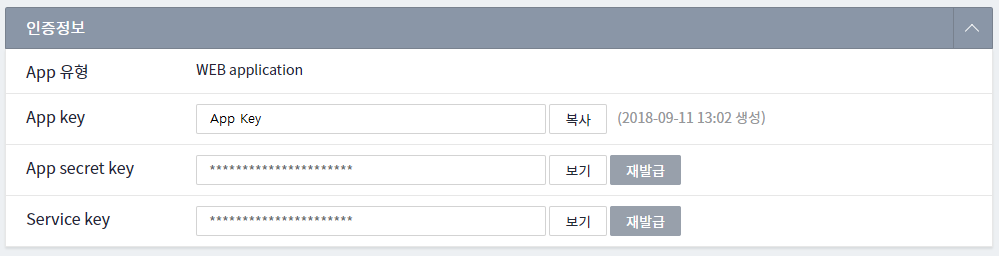
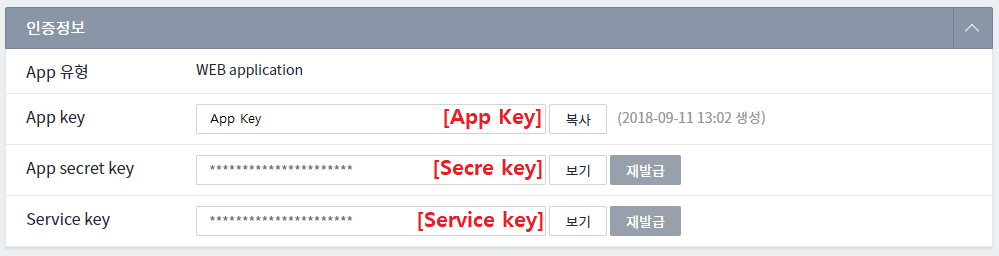
2018.11.16 - README 가이드 수정 / HttpClient.java - Error시 응답메시지 출력

Changed region(s): [[0.4034, 0.8125, 0.5586, 0.9062], [0.4344, 0.4062, 0.5586, 0.5], [0.4344, 0.625, 0.5586, 0.7188]]

diff --git a/src/main/resources/templates/admin.html b/src/main/resources/templates/admin.html
@@ -72,23 +72,23 @@
                     </select>
                 </div>
                 <div class="two wide field error">
-                    <label>condition</label>
+                    <label>할인조건</label>
                     <select class="ui fluid dropdown">
                         <option value="6" selected>금요일</option>
                     </select>
                 </div>
                 <div class="two wide field error">
-                    <label>value_type</label>
+                    <label>정률/정액</label>
                     <select class="ui fluid dropdown">
                         <option value="W" selected>정액제</option>
                     </select>
                 </div>
                 <div class="three wide field error">
-                    <label>starts_at</label>
+                    <label>할인 적용일</label>
                     <input type="datetime-local" placeholder="starts_at" value="2018-01-01T00:00" readonly>
                 </div>
                 <div class="three wide field error">
-                    <label>ends_at</label>
+                    <label>할인 마감일</label>
                     <input type="datetime-local" placeholder="ends_at" value="2020-12-31T00:00" readonly>
                 </div>
                 <div class="four wide field error">
@@ -178,7 +178,7 @@
                 discount_fn.delete_scripttag();
             }
 
-            setTimeout(function () {    //스크립트 설치/삭제 후 2초간 버튼 disable
+            setTimeout(function () {    //스크립트 설치/삭제 후 1초간 버튼 disable
                 $('#js_installed').attr('disabled', false);
             }, 1000);
         },

diff --git a/src/main/java/com/cafe24/app/discount/api/HttpClient.java b/src/main/java/com/cafe24/app/discount/api/HttpClient.java
@@ -5,40 +5,17 @@ import com.cafe24.app.discount.utils.Commons;
 import org.slf4j.Logger;
 import org.slf4j.LoggerFactory;
 import org.springframework.http.HttpMethod;
+import org.springframework.http.HttpStatus;
 
-import javax.net.ssl.HttpsURLConnection;
-import javax.net.ssl.SSLContext;
-import javax.net.ssl.TrustManager;
-import javax.net.ssl.X509TrustManager;
 import java.io.BufferedReader;
-import java.io.InputStream;
+import java.io.IOException;
 import java.io.InputStreamReader;
 import java.net.HttpURLConnection;
 import java.net.URL;
-import java.security.SecureRandom;
-import java.security.cert.X509Certificate;
 import java.util.Map;
 
 public class HttpClient {
     private static final Logger log = LoggerFactory.getLogger(HttpClient.class);
-
-    /**
-     * SSL 인증우회
-     */
-    private TrustManager[] trustAllCerts = new TrustManager[]{new X509TrustManager() {
-        public X509Certificate[] getAcceptedIssuers() {
-            return null;
-        }
-
-        @Override
-        public void checkClientTrusted(X509Certificate[] chain, String authType) {
-        }
-
-        @Override
-        public void checkServerTrusted(X509Certificate[] chain, String authType) {
-        }
-    }
-    };
 
     /**
      * Http 호출
@@ -47,11 +24,11 @@ public class HttpClient {
      * @return
      */
     protected String excute(Cafe24Request request) {
-        log.info("HttpClient excute method : {}", request.method());
-        log.info("HttpClient excute url : {}", request.url());
+        log.info("HttpClient excute method : {}, url : {}", request.method(), request.url());
 
         StringBuilder sb = new StringBuilder();
         HttpURLConnection conn = null;
+        BufferedReader br = null;
 
         try {
             byte[] postDataBytes;
@@ -61,11 +38,6 @@ public class HttpClient {
             } else {
                 postDataBytes = Commons.makeQueryString(request.bodys()).getBytes("UTF-8");
             }
-
-            //SSL 인증우회
-            SSLContext sc = SSLContext.getInstance("SSL");
-            sc.init(null, this.trustAllCerts, new SecureRandom());
-            HttpsURLConnection.setDefaultSSLSocketFactory(sc.getSocketFactory());
 
             URL url = new URL(request.url());
             conn = (HttpURLConnection) url.openConnection();
@@ -79,28 +51,28 @@ public class HttpClient {
                 conn.setDoOutput(true);
                 conn.getOutputStream().write(postDataBytes);
             }
+            log.info("HttpClient conn ResponseCode : {}, msg : {}", conn.getResponseCode(), conn.getResponseMessage());
 
-            log.info("HttpClient comm msg : {}", conn.getResponseMessage());
-
-            try (InputStreamReader in = new InputStreamReader((InputStream) conn.getContent());
-                 BufferedReader br = new BufferedReader(in)) {
-
-                String line;
-
-                while ((line = br.readLine()) != null) {
-                    sb.append(line).append("\n");
-                }
-
-                log.info("HttpClient excute result : {}", sb.toString());
+            HttpStatus httpStatus = HttpStatus.valueOf(conn.getResponseCode());
+            if (httpStatus.is2xxSuccessful()) {    // 정상 호출
+                br = new BufferedReader(new InputStreamReader(conn.getInputStream()));
+            } else {    // 에러 발생
+                br = new BufferedReader(new InputStreamReader(conn.getErrorStream()));
             }
 
+            String line;
+            while ((line = br.readLine()) != null) {
+                sb.append(line);
+            }
+
+            log.info("HttpClient excute result : {}", sb.toString());
         } catch (Exception e) {
             e.printStackTrace();
         } finally {
+            try {br.close();} catch (IOException e) {e.printStackTrace();}
             conn.disconnect();
         }
 
         return sb.toString();
     }
-
 }

diff --git a/README.md b/README.md
@@ -13,10 +13,13 @@
 
 ## 이용 방법
 * 선행 조건 [개발자 센터](https://developer.cafe24.com/)에 가입후 앱을 등록한다.
-    1. 기본정보 등록     
+    1. 기본정보 등록 ([App Guide](https://developer.cafe24.com/guide/front/intro?guide_no=47))
         ![기본 정보 세팅](image/app_dicount_set_info.PNG)
+    
+    2. 스코프 획득 ([Scope Guide](https://developer.cafe24.com/guide/front/develop?guide_no=58))
+        ![스코프 획득](image/app_dicount_scope.PNG)
         
-    2. 인증 정보 획득
+    3. 인증 정보 획득 ([Auth Guide](https://developer.cafe24.com/guide/front/develop?guide_no=74))
         ![인증 정보 획득](image/app_dicount_auth_info.PNG)
 
 * 개발 환경 세팅
@@ -77,11 +80,17 @@
 
 cafe24 Discount Sample을 이용 중 버그를 발견하거나, 소스 코드에 대해 문의 사항이 있으면 [Issues](https://github.com/cafe24-app/app_discount_sample/issues)에 등록해 주세요.
 
-
 ## 업데이트 안내
-* 2018.10.24 - `aBasketProductData`, `aBasketProductOrderData` 변수에 `product_qty` 항목이 추가
-    * product_qty : 실제 구매 수량
-    * quantity : cafe24 솔루션 할인 1+N의 적용 수량
-* 2018.10.30 - JS 변수 `time` 밀리초 단위에서 초 단위로 변경
-    * `new Date().getTime()` -> `Math.ceil(new Date().getTime() / 1000)`
-   
+* 2018.11.16 
+    * README 가이드 수정 
+    * HttpClient.java - Error시 응답메시지 출력
+    
+* 2018.10.30 
+    * JS 변수 `time` 밀리초 단위에서 초 단위로 변경
+        * `new Date().getTime()` -> `Math.ceil(new Date().getTime() / 1000)`
+        
+* 2018.10.24
+    * `aBasketProductData`, `aBasketProductOrderData` 변수에 `product_qty` 항목이 추가
+        * product_qty : 실제 구매 수량
+        * quantity : cafe24 솔루션 할인 1+N의 적용 수량
+        
